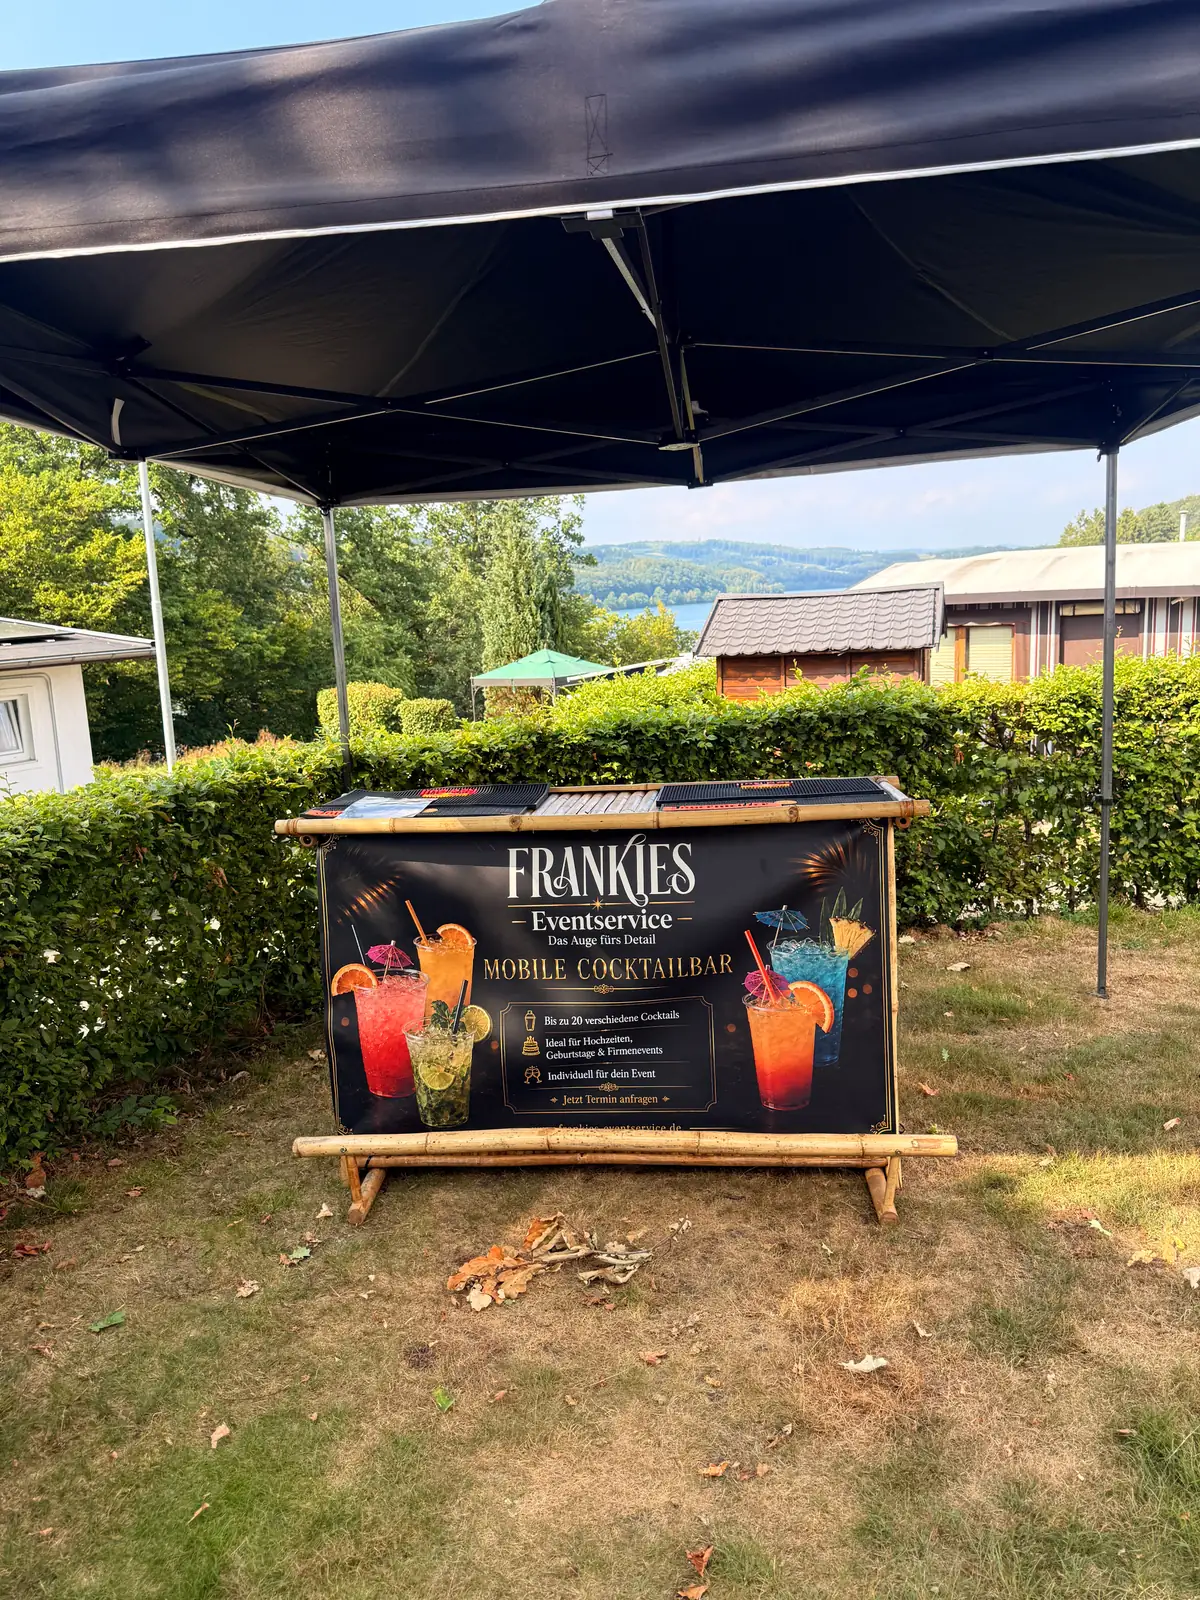
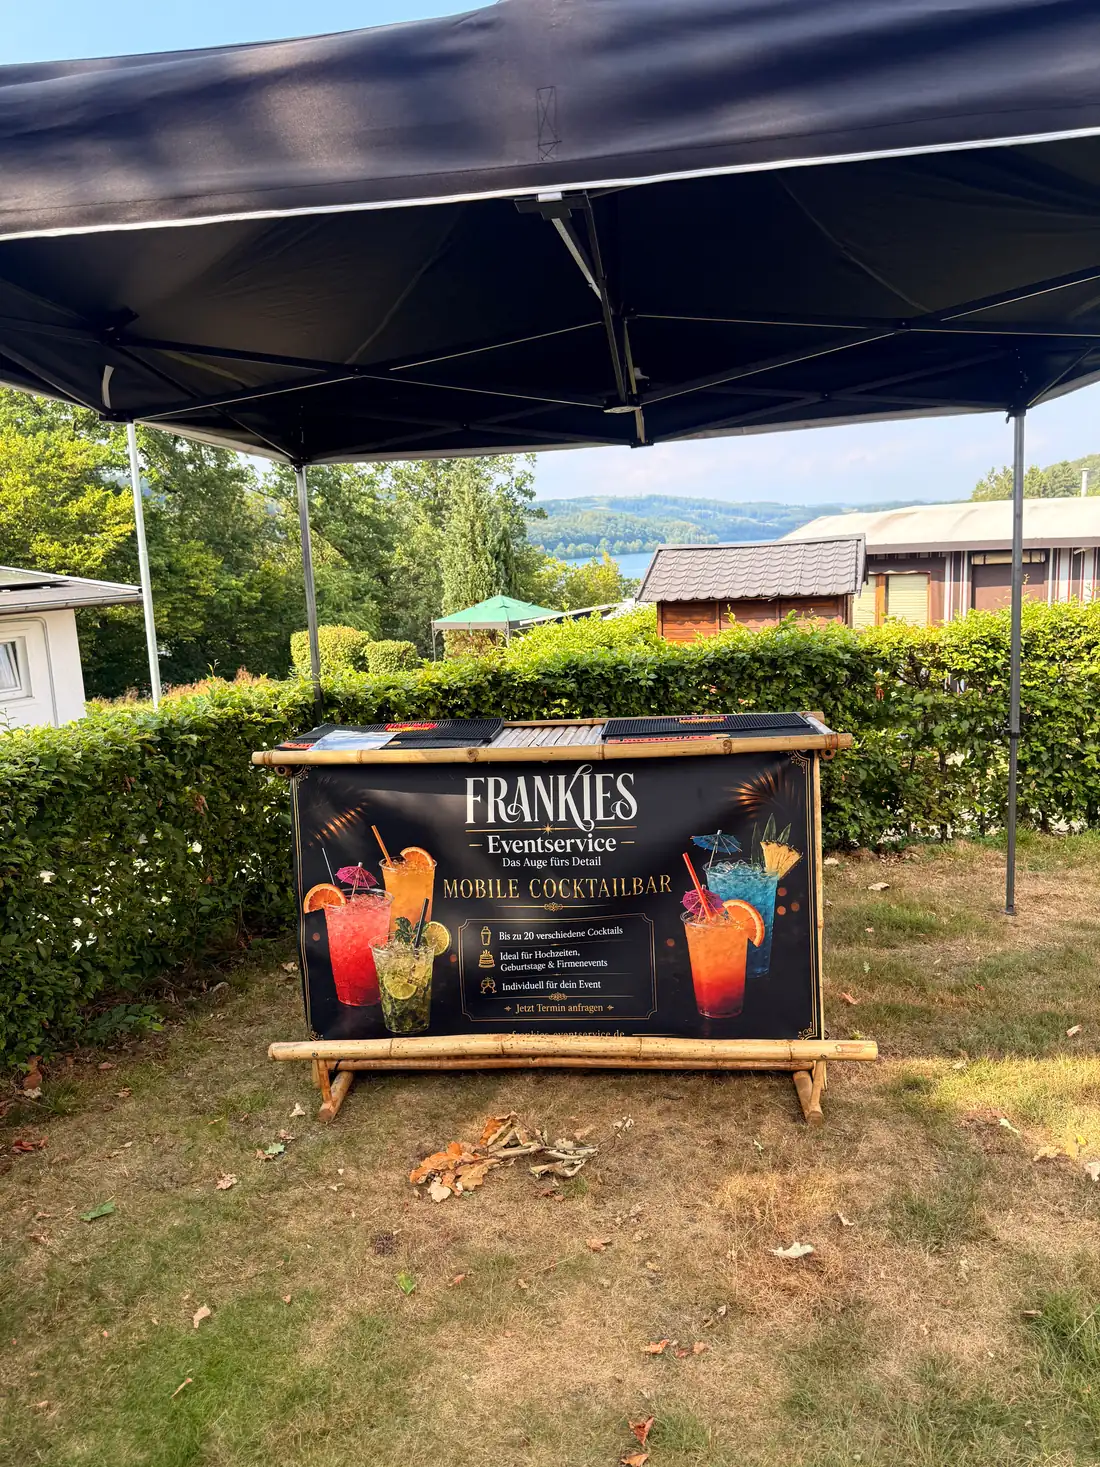
fix: Meta-Titel und -Descriptions gekuerzt, Bildgroessen reduziert
Meta-Angaben
Alle Titel lagen ueber der Vorgabe von 45-60 Zeichen (72 bis 89), drei
Descriptions ausserhalb von 150-160. Jetzt liegen alle sechs Seiten im
Zielbereich: Titel 49-59, Descriptions 151-160.

Die Titel behalten den Markennamen. Drei der Tool-Vorschlaege haetten
"Frankies" gestrichen, und der Vorschlag fuer die Hochzeitsseite verfehlte
mit 61 Zeichen die eigene Vorgabe. Die Fassung mit Marke liegt bei allen
fuenf Seiten im Bereich.

Bei den Descriptions ist der Wortlaut der Vorschlaege uebernommen, mit zwei
Korrekturen: "fuer Schuetzenfest" zurueck auf den korrekten Plural
"Schuetzenfeste", und die Kreis-Olpe-Description von 146 auf 160 Zeichen
gebracht, weil der Vorschlag unter der eigenen Untergrenze lag.

/service stand nicht im Bericht, hatte aber dieselben Werte ausserhalb der
Vorgabe (Titel 80, Description 177) und ist mitgezogen. OpenGraph und
Twitter bleiben unveraendert — fuer die gilt die 60-Zeichen-Regel nicht.

Bilder
Das Logo lag als 1840x779-PNG mit 511 KB vor und wurde von CardNav als
einfaches <img> ohne Optimierung auf jeder Seite geladen. Angezeigt wird es
mit 123x52 Punkten. Ersetzt durch ein 480px-WebP mit 22 KB — auf jeder
Seite 489 KB weniger. Das ist der groesste Posten des ganzen Berichts.

theke-vor-ort.webp neu aus dem Original kodiert, 1200x1600 auf 1100x1467,
und sizes von 100vw auf den gemessenen Rahmen korrigiert. bambustheke.webp
und team.webp mit quality=60 statt Nexts Vorgabe 75.
[…]

diff --git a/app/cocktailbar-lennestadt/page.tsx b/app/cocktailbar-lennestadt/page.tsx
@@ -10,7 +10,7 @@ const PAGE_URL = 'https://frankies-eventservice.de/cocktailbar-lennestadt'
 const OG_IMAGE = 'https://frankies-eventservice.de/og/cocktailbar.jpg'
 
 export const metadata: Metadata = {
-  title: 'Mobile Cocktailbar Lennestadt | Bambustheke & Barservice – Frankies Eventservice',
+  title: 'Mobile Cocktailbar Lennestadt | Frankies Eventservice',
   description: 'Mobile Cocktailbar in Lennestadt und Kreis Olpe mieten. Mit unserer Bambustheke kommen wir direkt zu Ihnen – für Hochzeiten, Geburtstage, JGA und Firmenfeiern.',
   keywords: 'mobile Cocktailbar Lennestadt, Cocktailbar mieten Kreis Olpe, Bambustheke, Cocktailbar Hochzeit Sauerland, JGA Cocktailbar, Barkeeper mieten NRW',
   alternates: { canonical: PAGE_URL },
@@ -128,7 +128,7 @@ export default function CocktailbarLennestadt() {
             <div className="section-container">
               <div className="cocktail-grid">
                 <div className="cocktail-visual reveal-left glow-frame">
-                  <Image src="/bambustheke.webp" alt="Mobile Cocktailbar mit Bambustheke für Events in Lennestadt" width={600} height={750} priority sizes="(max-width: 768px) 100vw, 600px" style={{ width: '100%', height: '100%', objectFit: 'cover' }} />
+                  <Image src="/bambustheke.webp" alt="Mobile Cocktailbar mit Bambustheke für Events in Lennestadt" width={600} height={750} priority sizes="(max-width: 768px) 100vw, 600px" quality={60} style={{ width: '100%', height: '100%', objectFit: 'cover' }} />
                 </div>
                 <div className="reveal grid-text">
                   <p className="section-label" style={{ margin: '0 auto 1rem' }}>Einzigartiges Flair</p>

diff --git a/app/getraenkeservice-schuetzenfest/page.tsx b/app/getraenkeservice-schuetzenfest/page.tsx
@@ -10,8 +10,8 @@ const PAGE_URL = 'https://frankies-eventservice.de/getraenkeservice-schuetzenfes
 const OG_IMAGE = 'https://frankies-eventservice.de/og/schuetzenfest.jpg'
 
 export const metadata: Metadata = {
-  title: 'Getränkeservice Schützenfest Sauerland | Zapfservice & Thekenservice – Frankies',
-  description: 'Professioneller Getränke- und Zapfservice für Schützenfeste im Kreis Olpe und Sauerland. Kompletter Thekenservice von Freitag bis Montag – zuverlässig und erfahren.',
+  title: 'Getränkeservice Schützenfest Sauerland | Frankies',
+  description: 'Professioneller Getränke- und Zapfservice für Schützenfeste im Kreis Olpe und Sauerland. Kompletter Thekenservice von Freitag bis Montag – jetzt anfragen.',
   keywords: 'Getränkeservice Schützenfest Sauerland, Zapfservice Schützenfest Kreis Olpe, Thekenservice Schützenfest NRW, Bierzapfen Schützenfest, Ausschank mieten Sauerland, Festzelt Getränkeservice',
   alternates: { canonical: PAGE_URL },
   openGraph: {

diff --git a/components/Cocktailbar.tsx b/components/Cocktailbar.tsx
@@ -46,10 +46,15 @@ export default function Cocktailbar() {
           <Image
             src="/theke-vor-ort.webp"
             alt="Frankies Eventservice – Mobile Cocktailbar mit Bambustheke, aufgebaut unter Pavillon bei einem Event im Sauerland"
-            width={1200}
-            height={1600}
+            width={1100}
+            height={1467}
             priority
-            sizes="100vw"
+            /* sizes stand auf 100vw, obwohl der Rahmen dank der 2rem
+               Seitenabstaende schmaler ist. Dadurch hat der Browser die
+               groesste srcset-Variante angefordert. Der gemessene Rahmen ist
+               1312px bei 1440px Fenster, mobil volle Breite. */
+            sizes="(max-width: 768px) 100vw, 1350px"
+            quality={60}
             /* Das Foto ist hochkant, der Ausschnitt hier breit — ohne
                objectPosition schneidet cover mittig und zeigt die Hecke statt
                der Theke. Der Wert haelt die Bambustheke mit dem Banner im

diff --git a/app/eventservice-kreis-olpe/page.tsx b/app/eventservice-kreis-olpe/page.tsx
@@ -10,8 +10,8 @@ const PAGE_URL = 'https://frankies-eventservice.de/eventservice-kreis-olpe'
 const OG_IMAGE = 'https://frankies-eventservice.de/og/olpe.jpg'
 
 export const metadata: Metadata = {
-  title: 'Eventservice Kreis Olpe | Getränke- & Veranstaltungsservice – Frankies Eventservice',
-  description: 'Ihr Eventservice im Kreis Olpe und Sauerland. Professioneller Getränke- und Thekenservice für alle Veranstaltungen jeder Art – zuverlässig, flexibel und erfahren.',
+  title: 'Eventservice Kreis Olpe | Frankies Getränkeservice',
+  description: 'Frankies Eventservice – Professioneller Getränke- und Thekenservice im Kreis Olpe & Sauerland. Zuverlässig, flexibel und erfahren. Jetzt unverbindlich anfragen!',
   keywords: 'Eventservice Kreis Olpe, Veranstaltungsservice Sauerland, Getränkeservice Olpe, Thekenservice Attendorn, Barservice Finnentrop, Eventdienstleister NRW, Getränkeausschank mieten',
   alternates: { canonical: PAGE_URL },
   openGraph: {

diff --git a/app/layout.tsx b/app/layout.tsx
@@ -24,9 +24,9 @@ const BASE_URL = 'https://frankies-eventservice.de'
 const OG_IMAGE = 'https://frankies-eventservice.de/og/home.jpg'
 
 export const metadata: Metadata = {
-  title: 'Frankies Eventservice | Getränke- und Veranstaltungsservice im Sauerland',
+  title: 'Frankies Eventservice | Getränke- & Thekenservice Sauerland',
   description:
-    'Frankies Eventservice – Professioneller Getränke- und Thekenservice sowie mobile Cocktailbar für Schützenfeste, Hochzeiten und Veranstaltungen im Kreis Olpe und für alle Veranstaltungen jeder Art.',
+    'Frankies Eventservice: Professioneller Getränke- und Thekenservice mit mobiler Cocktailbar für Schützenfeste, Hochzeiten im Kreis Olpe. Jetzt anfragen.',
   keywords:
     'Eventservice Sauerland, Getränkeservice Schützenfest, Thekenservice Hochzeit, Barservice Lennestadt, Eventservice Olpe, Zapfservice NRW, mobile Cocktailbar Sauerland, Cocktailbar mieten',
   authors: [{ name: 'Frankies Eventservice' }],

diff --git a/app/service/page.tsx b/app/service/page.tsx
@@ -5,8 +5,8 @@ const PAGE_URL = 'https://frankies-eventservice.de/service'
 const OG_IMAGE = 'https://frankies-eventservice.de/og/service.jpg'
 
 export const metadata: Metadata = {
-  title: 'Service-Pakete & Portfolio | Eventservice aus einer Hand – Frankies Eventservice',
-  description: 'Professioneller Eventservice im Sauerland: Servicepersonal, Getränkeservice, mobile Cocktailbar, Hüpfburgen, Fotoboxen, Eventmöbel und Licht- & Tontechnik. Alles aus einer Hand.',
+  title: 'Service-Pakete & Eventservice Sauerland | Frankies',
+  description: 'Eventservice aus einer Hand im Sauerland: Servicepersonal, Getränkeservice, mobile Cocktailbar, Hüpfburgen, Fotoboxen und Eventmöbel. Jetzt Angebot anfragen.',
   keywords: 'Eventservice Sauerland, Servicepersonal Kreis Olpe, Getränkeservice Lennestadt, Hüpfburg mieten Sauerland, Fotobox mieten NRW, mobile Cocktailbar Sauerland, Eventmöbel mieten',
   alternates: { canonical: PAGE_URL },
   openGraph: {

diff --git a/app/hochzeit-sauerland/page.tsx b/app/hochzeit-sauerland/page.tsx
@@ -10,7 +10,7 @@ const PAGE_URL = 'https://frankies-eventservice.de/hochzeit-sauerland'
 const OG_IMAGE = 'https://frankies-eventservice.de/og/hochzeit.jpg'
 
 export const metadata: Metadata = {
-  title: 'Thekenservice Hochzeit Sauerland | Getränkeservice für Hochzeiten – Frankies Eventservice',
+  title: 'Thekenservice Hochzeit Sauerland | Frankies Eventservice',
   description: 'Professioneller Thekenservice für Hochzeiten im Sauerland und Kreis Olpe. Wir übernehmen den kompletten Getränkeausschank – damit Sie entspannt feiern können.',
   keywords: 'Thekenservice Hochzeit Sauerland, Getränkeservice Hochzeit Kreis Olpe, Sektempfang Hochzeit NRW, Barservice Hochzeit, Cocktailbar Hochzeit, Hochzeitsservice Lennestadt',
   alternates: { canonical: PAGE_URL },

diff --git a/components/Navbar.tsx b/components/Navbar.tsx
@@ -63,9 +63,13 @@ export default function Navbar() {
     }
   }
 
+  // Das Logo lag als 1840x779-PNG mit 511 KB vor und wurde von CardNav als
+  // einfaches <img> ohne Optimierung auf jeder Seite geladen. Angezeigt wird
+  // es mit 52px Hoehe (mobil 38px), also rund 123px breit. 480px decken selbst
+  // 3x-Retina ab; als WebP sind das 22 KB.
   return (
     <CardNav
-      logo="/189d47fa-f715-4552-8ec7-4d36b7c50b65.png"
+      logo="/logo-frankies.webp"
       logoAlt="Frankies Eventservice"
       items={items}
       baseColor="#161616"

diff --git a/components/Ueber.tsx b/components/Ueber.tsx
@@ -14,7 +14,7 @@ export default function Ueber() {
               alt="Frankies Eventservice Logo – Getränke- und Thekenservice Lennestadt Sauerland"
               width={600}
               height={750}
-              sizes="(max-width: 768px) 100vw, 600px"
+              sizes="(max-width: 768px) 100vw, 600px" quality={60}
               style={{ width: '100%', height: '100%', objectFit: 'cover' }}
             />
           </div>
